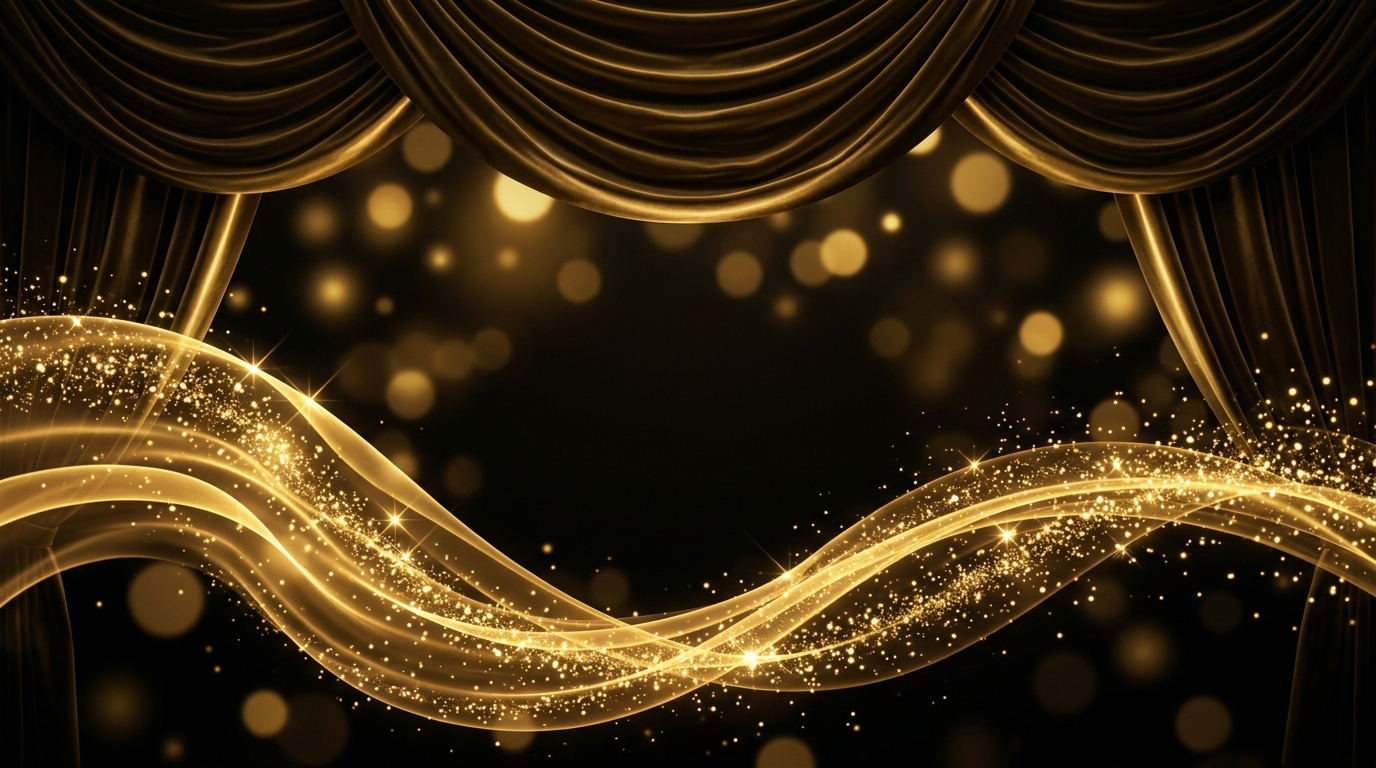
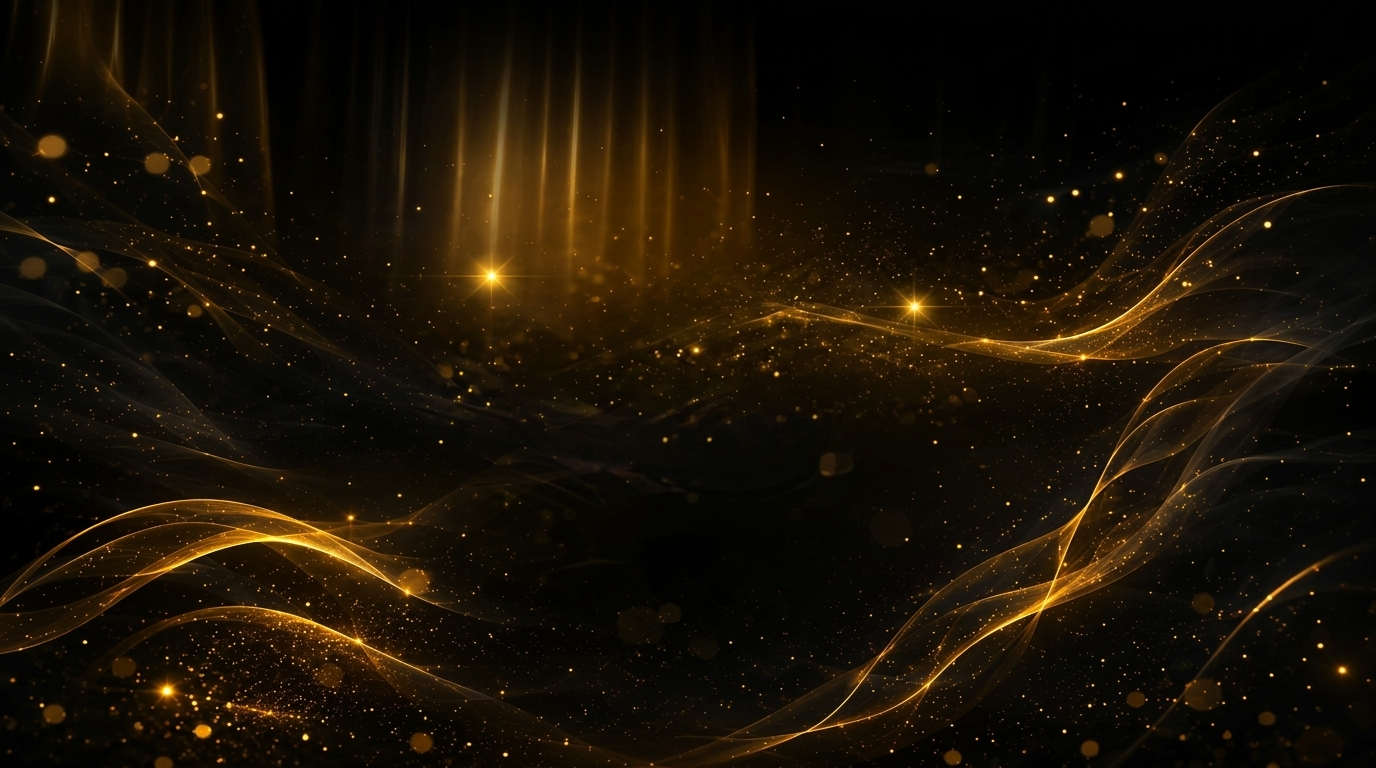
feat(backdrop): apply exact reference clean stage backdrop without darkening overlays and with transparent hero and glass header

diff --git a/asiri-user-portal/styles.css b/asiri-user-portal/styles.css
@@ -153,9 +153,7 @@ section {
   left: 0;
   width: 100vw;
   height: 100vh;
-  background: 
-    radial-gradient(ellipse at 50% 50%, rgba(6, 6, 8, 0.04) 0%, rgba(6, 6, 8, 0.18) 60%, rgba(6, 6, 8, 0.70) 100%),
-    url('assets/hero-backdrop.jpg') center center / cover no-repeat;
+  background: url('assets/hero-backdrop.jpg') center center / cover no-repeat;
   pointer-events: none;
   z-index: 0;
   transform: translateZ(0);
@@ -210,10 +208,10 @@ main, #view-portal, #view-dashboard {
    ========================================================================== */
 
 .site-header {
-  background: rgba(7, 8, 10, 0.82);
-  backdrop-filter: blur(24px);
-  -webkit-backdrop-filter: blur(24px);
-  border-bottom: 1px solid var(--gold-border-subtle);
+  background: rgba(7, 8, 10, 0.40);
+  backdrop-filter: blur(16px);
+  -webkit-backdrop-filter: blur(16px);
+  border-bottom: 1px solid rgba(242, 202, 80, 0.15);
   transition: background var(--transition-smooth), box-shadow var(--transition-smooth);
   transform: translateZ(0);
   backface-visibility: hidden;
@@ -544,10 +542,7 @@ main, #view-portal, #view-dashboard {
 
 #home {
   position: relative;
-  background: 
-    radial-gradient(ellipse at 50% 45%, rgba(6, 6, 8, 0.08) 0%, rgba(6, 6, 8, 0.35) 60%, rgba(6, 6, 8, 0.82) 100%),
-    url('assets/hero-backdrop.jpg') center center / cover no-repeat;
-  background-attachment: scroll;
+  background: transparent;
 }
 
 .hero-crown-crest {

diff --git a/styles.css b/styles.css
@@ -153,9 +153,7 @@ section {
   left: 0;
   width: 100vw;
   height: 100vh;
-  background: 
-    radial-gradient(ellipse at 50% 50%, rgba(6, 6, 8, 0.04) 0%, rgba(6, 6, 8, 0.18) 60%, rgba(6, 6, 8, 0.70) 100%),
-    url('assets/hero-backdrop.jpg') center center / cover no-repeat;
+  background: url('assets/hero-backdrop.jpg') center center / cover no-repeat;
   pointer-events: none;
   z-index: 0;
   transform: translateZ(0);
@@ -210,10 +208,10 @@ main, #view-portal, #view-dashboard {
    ========================================================================== */
 
 .site-header {
-  background: rgba(7, 8, 10, 0.82);
-  backdrop-filter: blur(24px);
-  -webkit-backdrop-filter: blur(24px);
-  border-bottom: 1px solid var(--gold-border-subtle);
+  background: rgba(7, 8, 10, 0.40);
+  backdrop-filter: blur(16px);
+  -webkit-backdrop-filter: blur(16px);
+  border-bottom: 1px solid rgba(242, 202, 80, 0.15);
   transition: background var(--transition-smooth), box-shadow var(--transition-smooth);
   transform: translateZ(0);
   backface-visibility: hidden;
@@ -544,10 +542,7 @@ main, #view-portal, #view-dashboard {
 
 #home {
   position: relative;
-  background: 
-    radial-gradient(ellipse at 50% 45%, rgba(6, 6, 8, 0.08) 0%, rgba(6, 6, 8, 0.35) 60%, rgba(6, 6, 8, 0.82) 100%),
-    url('assets/hero-backdrop.jpg') center center / cover no-repeat;
-  background-attachment: scroll;
+  background: transparent;
 }
 
 .hero-crown-crest {

diff --git a/asiri-staff-portal/styles.css b/asiri-staff-portal/styles.css
@@ -166,9 +166,7 @@ section {
   left: 0;
   width: 100vw;
   height: 100vh;
-  background: 
-    radial-gradient(ellipse at 50% 50%, rgba(6, 6, 8, 0.20) 0%, rgba(6, 6, 8, 0.50) 60%, rgba(6, 6, 8, 0.85) 100%),
-    url('assets/hero-backdrop.jpg') center center / cover no-repeat;
+  background: url('assets/hero-backdrop.jpg') center center / cover no-repeat;
   pointer-events: none;
   z-index: 0;
   transform: translateZ(0);
